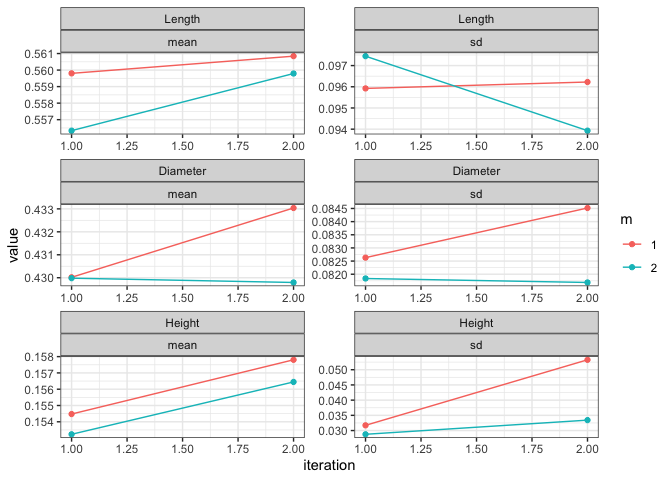
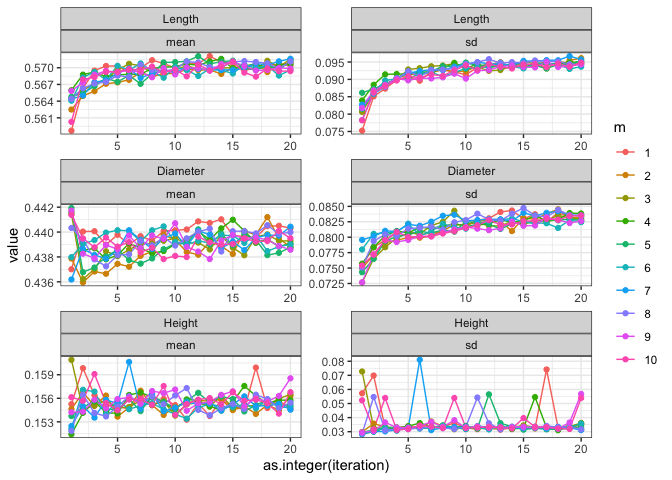
Updates readme

diff --git a/README.md b/README.md
@@ -35,10 +35,10 @@ and then pool the results:
 library(misl)
 set.seed(123)
 
-misl_imp <- misl(abalone, maxit = 2, m = 2, quiet = TRUE,
-                  con_method = c("Lrnr_glm_fast", "Lrnr_mean"),
-                  bin_method = c("Lrnr_mean", "Lrnr_glm_fast"),
-                  cat_method = c("Lrnr_independent_binomial", "Lrnr_mean"))
+misl_imp <- misl(abalone, maxit = 20, m = 10, quiet = TRUE,
+    con_method = c("Lrnr_glm_fast", "Lrnr_earth", "Lrnr_ranger"),
+    bin_method = c("Lrnr_earth", "Lrnr_glm_fast", "Lrnr_ranger"),
+    cat_method = c("Lrnr_independent_binomial", "Lrnr_ranger"))
 
 misl_modeling <- lapply(misl_imp, function(y){
   stats::lm(Whole_Weight ~ Sex + Length + Diameter + Height + Older_12, data = y$datasets)
@@ -46,21 +46,21 @@ misl_modeling <- lapply(misl_imp, function(y){
 
 summary(mice::pool(misl_modeling), conf.int = TRUE)
 #>          term     estimate   std.error   statistic        df      p.value
-#> 1 (Intercept) -0.887693966 0.019116347 -46.4363815 57.552274 0.000000e+00
-#> 2        SexI -0.062548078 0.009443352  -6.6235039 42.294646 4.878313e-08
-#> 3        SexM -0.004023852 0.010026339  -0.4013281  4.032384 7.085381e-01
-#> 4      Length  1.098477222 0.323511367   3.3954826  1.663517 9.867079e-02
-#> 5    Diameter  1.779552767 0.261800553   6.7973606  4.387888 1.738168e-03
-#> 6      Height  2.966731278 0.683115692   4.3429412  1.043598 1.361443e-01
-#> 7    Older_12  0.062752546 0.013503397   4.6471674  1.788729 5.333936e-02
-#>          2.5 %      97.5 %
-#> 1 -0.925965830 -0.84942210
-#> 2 -0.081601601 -0.04349455
-#> 3 -0.031773486  0.02372578
-#> 4 -0.601374698  2.79832914
-#> 5  1.077331080  2.48177446
-#> 6 -4.901370957 10.83483351
-#> 7 -0.002445918  0.12795101
+#> 1 (Intercept) -0.992171743 0.018252802 -54.3572290 208.63020 0.000000e+00
+#> 2        SexI -0.044382542 0.008882474  -4.9966417 188.38235 1.327084e-06
+#> 3        SexM -0.002187947 0.006761454  -0.3235912 692.98769 7.463452e-01
+#> 4      Length  1.478661263 0.186511138   7.9280051  47.93463 2.855538e-10
+#> 5    Diameter  2.070730580 0.243349864   8.5092736  37.05361 3.042553e-10
+#> 6      Height  1.408162289 0.204656664   6.8806080  18.04273 1.929282e-06
+#> 7    Older_12  0.052249600 0.007550405   6.9201057  77.10638 1.170662e-09
+#>         2.5 %      97.5 %
+#> 1 -1.02815531 -0.95618817
+#> 2 -0.06190444 -0.02686065
+#> 3 -0.01546334  0.01108744
+#> 4  1.10364227  1.85368025
+#> 5  1.57768100  2.56378016
+#> 6  0.97826758  1.83805700
+#> 7  0.03721515  0.06728405
 ```
 
 We can also look at the traceplot of the imputations as
